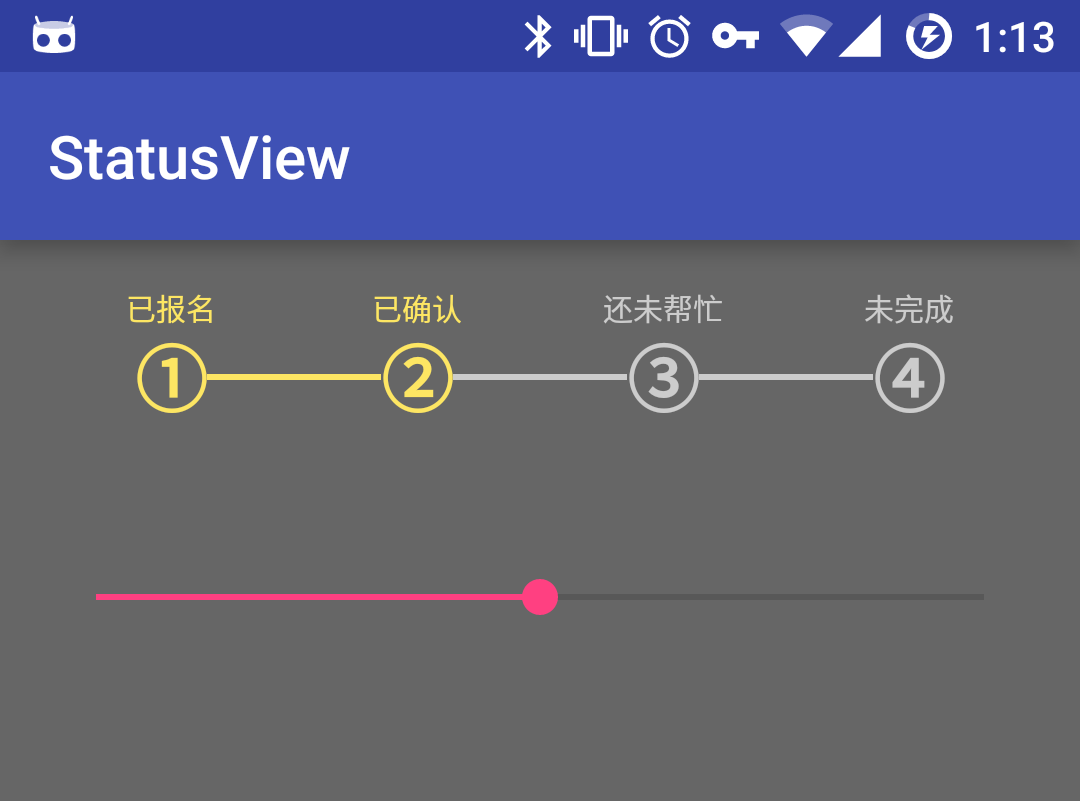
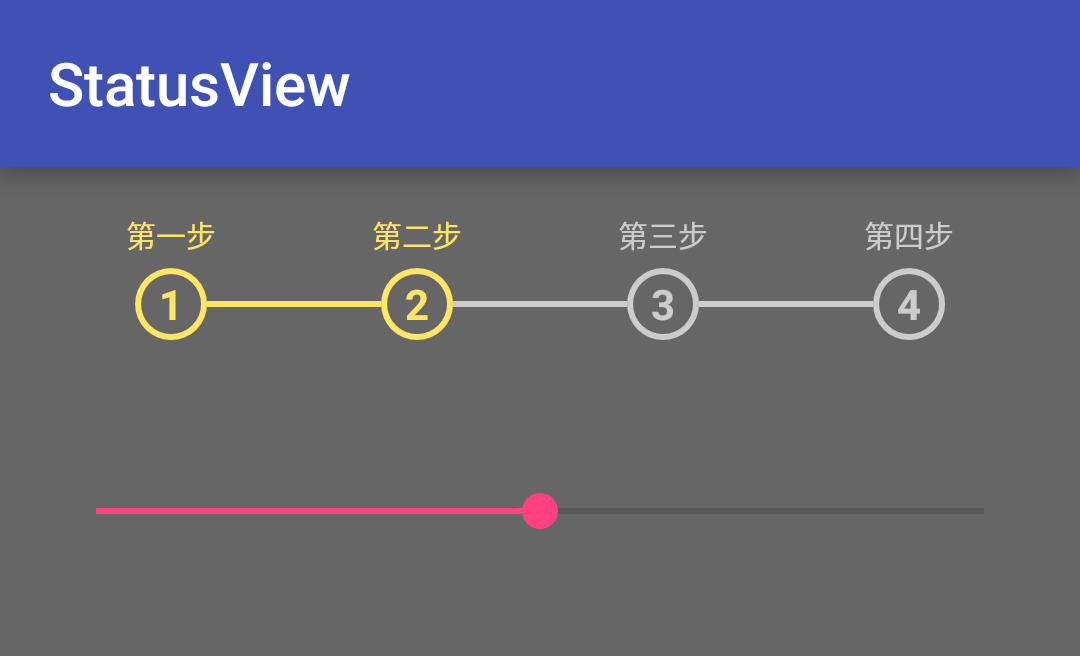
删除多余属性

diff --git a/app/src/main/java/com/twiceyuan/statusview/MainActivity.java b/app/src/main/java/com/twiceyuan/statusview/MainActivity.java
@@ -12,8 +12,8 @@ public class MainActivity extends AppCompatActivity {
     protected void onCreate(Bundle savedInstanceState) {
         super.onCreate(savedInstanceState);
         setContentView(R.layout.activity_main);
-        final String[] activeTexts = {"已报名", "已确认", "已帮忙", "已完成"};
-        final String[] inactiveTexts = {"未报名", "未确认", "还未帮忙", "未完成"};
+        final String[] activeTexts = {"第一步", "第二步", "第三步", "第四步"};
+        final String[] inactiveTexts = {"第一步", "第二步", "第三步", "第四步"};
         final StatusView statusBar = (StatusView) findViewById(R.id.statusBar);
         assert statusBar != null;
         statusBar.setActiveTexts(activeTexts);
